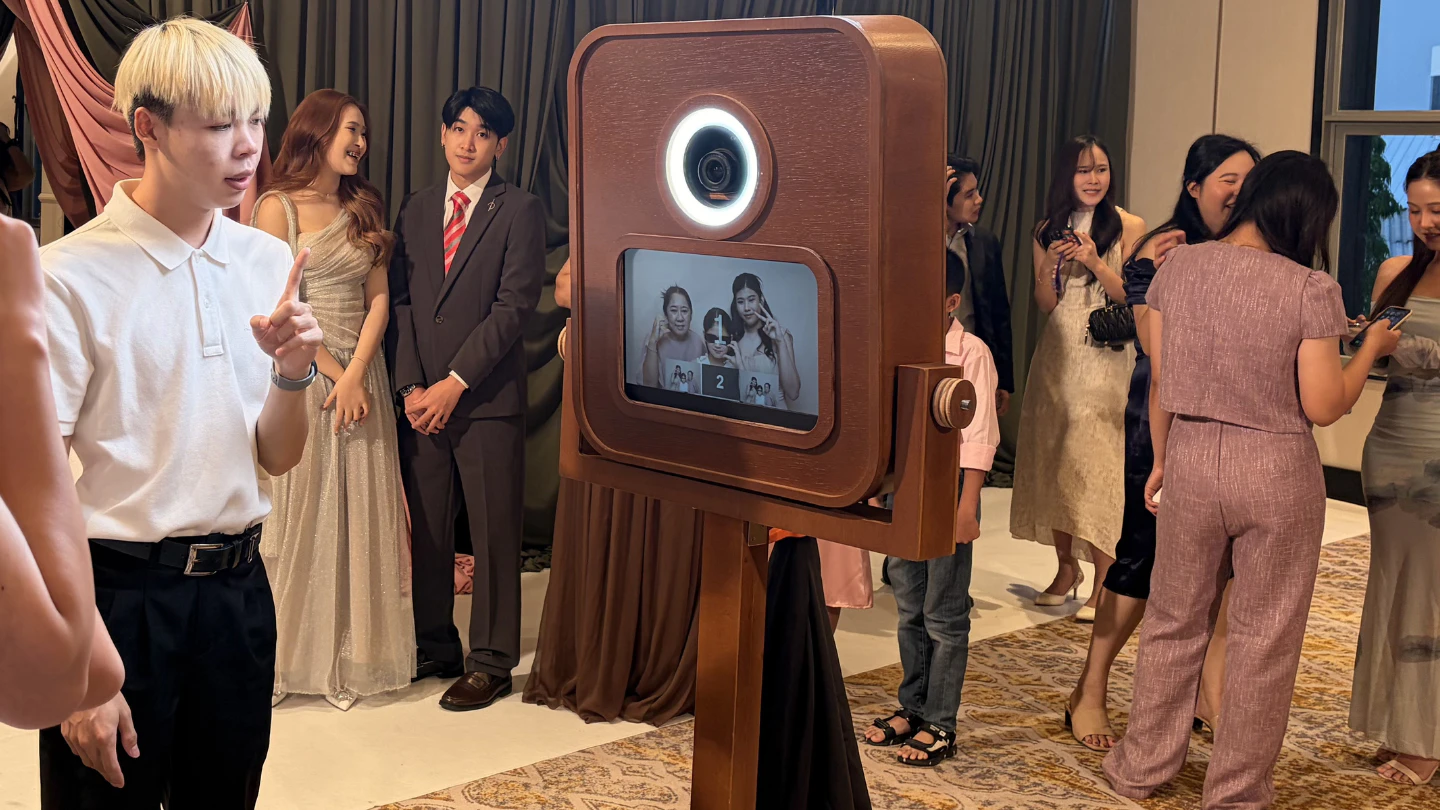
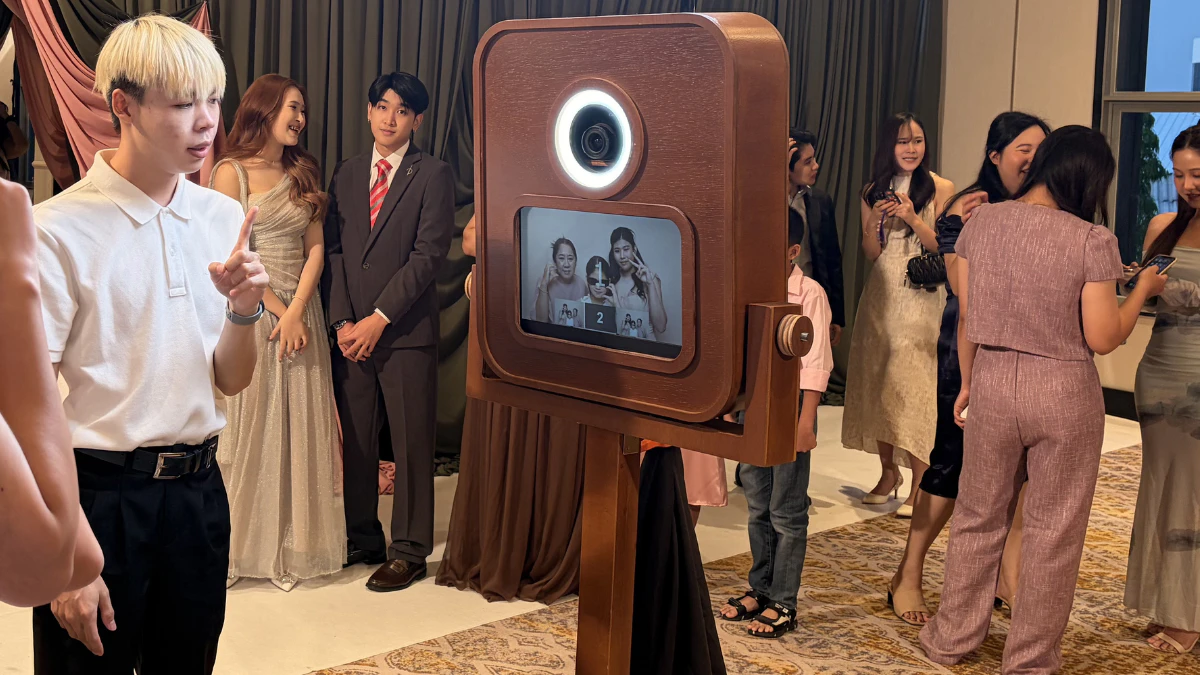
Update: 2026-04-30 16:01:48

diff --git a/convert-webp.js b/convert-webp.js
@@ -1,0 +1,24 @@
+import sharp from 'sharp';
+import fs from 'fs';
+import path from 'path';
+import { fileURLToPath } from 'url';
+
+const __filename = fileURLToPath(import.meta.url);
+const __dirname = path.dirname(__filename);
+
+const dir = path.join(__dirname, 'public/images/example');
+const sizes = [305, 320, 480, 800];
+
+fs.readdirSync(dir)
+  .filter(file => file.endsWith('.webp'))
+  .forEach(file => {
+    sizes.forEach(size => {
+      const input = path.join(dir, file);
+      const output = path.join(dir, `${path.parse(file).name}-${size}.webp`);
+      sharp(input)
+        .resize({ width: size })
+        .toFile(output)
+        .then(() => console.log(`Created ${output}`))
+        .catch(err => console.error(`Error processing ${input}:`, err));
+    });
+  });
